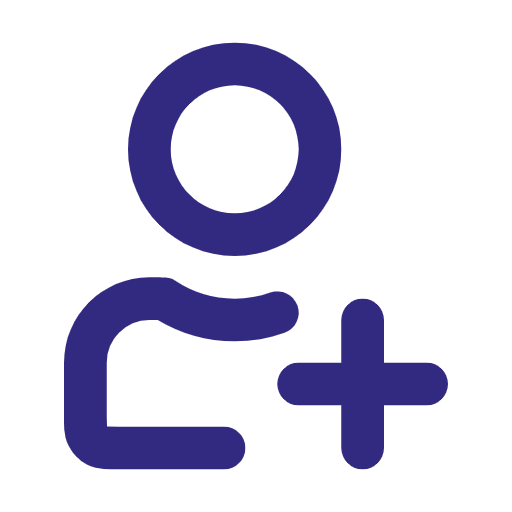
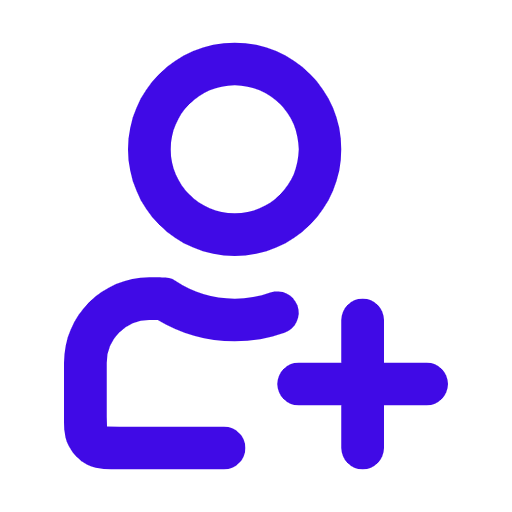
UI changes

Changed region(s): [[0.25, 0.0625, 0.6875, 0.5], [0.125, 0.5312, 0.5938, 0.9375], [0.5312, 0.5625, 0.875, 0.9375]]

diff --git a/src/Components/Footers.jsx b/src/Components/Footers.jsx
@@ -148,7 +148,7 @@
 import React from "react";
 import email from "../assets/email.png";
 // import logo from "../assets/logo_05.png";
-import logo from "../assets/Icons/Logo_white.png";
+import logo from "../assets/Logo_white.png";
 import { IoIosArrowUp } from "react-icons/io";
 import { Link, useNavigate } from "react-router-dom";
 import { useSelector } from "react-redux";
@@ -329,7 +329,7 @@ function Footers({ topMargin }) {
                 <div className="hidden xl:block text-sm">{item.label}</div>
               </li>
             ))} */}
-              <div className="flex justify-end pt-6">
+              <div className="flex pt-6">
 
                 {downSocialItems.map((item, index) => (
                   <li
@@ -341,7 +341,7 @@ function Footers({ topMargin }) {
                         navigate(item.href);
                       }
                     }}
-                    className="flex flex-col items-center justify-center cursor-pointer hover:text-green2 ml-6"
+                    className="flex flex-col items-center justify-center cursor-pointer hover:text-green2 mr-6"
                   >
                     {/* Show label above the icon */}
                     <div className="hidden xl:block text-sm mb-1">{item.label}</div>

diff --git a/src/Components/LayoutPage/LayoutStatic/LayoutSidebar.jsx b/src/Components/LayoutPage/LayoutStatic/LayoutSidebar.jsx
@@ -2,7 +2,7 @@ import React, { useEffect, useState } from "react";
 import { Link, useNavigate, useLocation } from "react-router-dom";
 import { FaChevronDown, FaChevronUp, FaBars, FaTimes,FaArrowLeft} from "react-icons/fa";
 // import logo from "../../../assets/logo_05.png";
-import logo from "../../../assets/Icons/Logo_white.png";
+import logo from "../../../assets/Logo_white.png";
 import profile from "../../../assets/ProfileSetting.png";
 import { useSelector } from "react-redux";
 import { logoutUserApi } from "../../../Api/UserApi";

diff --git a/src/Components/Admin/Layouts/AdminSideBar.jsx b/src/Components/Admin/Layouts/AdminSideBar.jsx
@@ -2,7 +2,7 @@ import React, { useEffect, useState } from "react";
 import { Link, useNavigate, useLocation } from "react-router-dom";
 import { FaChevronDown, FaChevronUp, FaBars, FaTimes } from "react-icons/fa";
 // import logo from "../../../assets/logo_05.png";
-import logo from "../../../assets/Icons/Logo_white.png";
+import logo from "../../../assets/Logo_white.png";
 import profile from "../../../assets/ProfileSetting.png";
 import { useSelector } from "react-redux";
 import sellerIcon from "../../../assets/Dashboard_icon.png";

diff --git a/src/Components/LayoutPage/LayoutStatic/LayoutNav.jsx b/src/Components/LayoutPage/LayoutStatic/LayoutNav.jsx
@@ -560,7 +560,7 @@ const LayoutNav = ({ Form_Data }) => {
           ))}
 
           <div onClick={() => navigate("/cart")} className="relative">
-            <div className="absolute text-white rounded-full bg-blue bottom-1/2 left-1.5 px-1 font-medium text-[10px]">
+            <div className="absolute top-0 right-[6px] px-1 text-sm text-blue font-semibold">
               {cartItems.length}
             </div>
             <Tooltip title="Cart" placement="top">

diff --git a/src/Components/LayoutPage/LayoutSell/LayoutaddProduct.jsx b/src/Components/LayoutPage/LayoutSell/LayoutaddProduct.jsx
@@ -1937,7 +1937,7 @@ function LayoutaddProduct() {
                               value={state.name}
                               onChange={handleInputChange}
                               checked={formData.states.includes(state.name)}
-                              className="mr-2 overflow-y-scroll"
+                              className="mr-2"
                             />
                             {state.name}
                           </label>

diff --git a/src/Components/Admin/Products/EditProductAdmin.jsx b/src/Components/Admin/Products/EditProductAdmin.jsx
@@ -1847,7 +1847,7 @@ function EditProductAdmin() {
                             value={state.name}
                             onChange={handleInputChange}
                             checked={formData.states.includes(state.name)}
-                            className="mr-2 overflow-y-scroll"
+                            className="mr-2 "
                           />
                           {state.name}
                         </label>

diff --git a/src/App.css b/src/App.css
@@ -293,3 +293,9 @@ body {
     padding-bottom: 5%;
   }
 }
+
+
+/* input, textarea */
+input:focus, select:focus, textarea:focus{
+  border-color: #400ae6 !important;
+}
